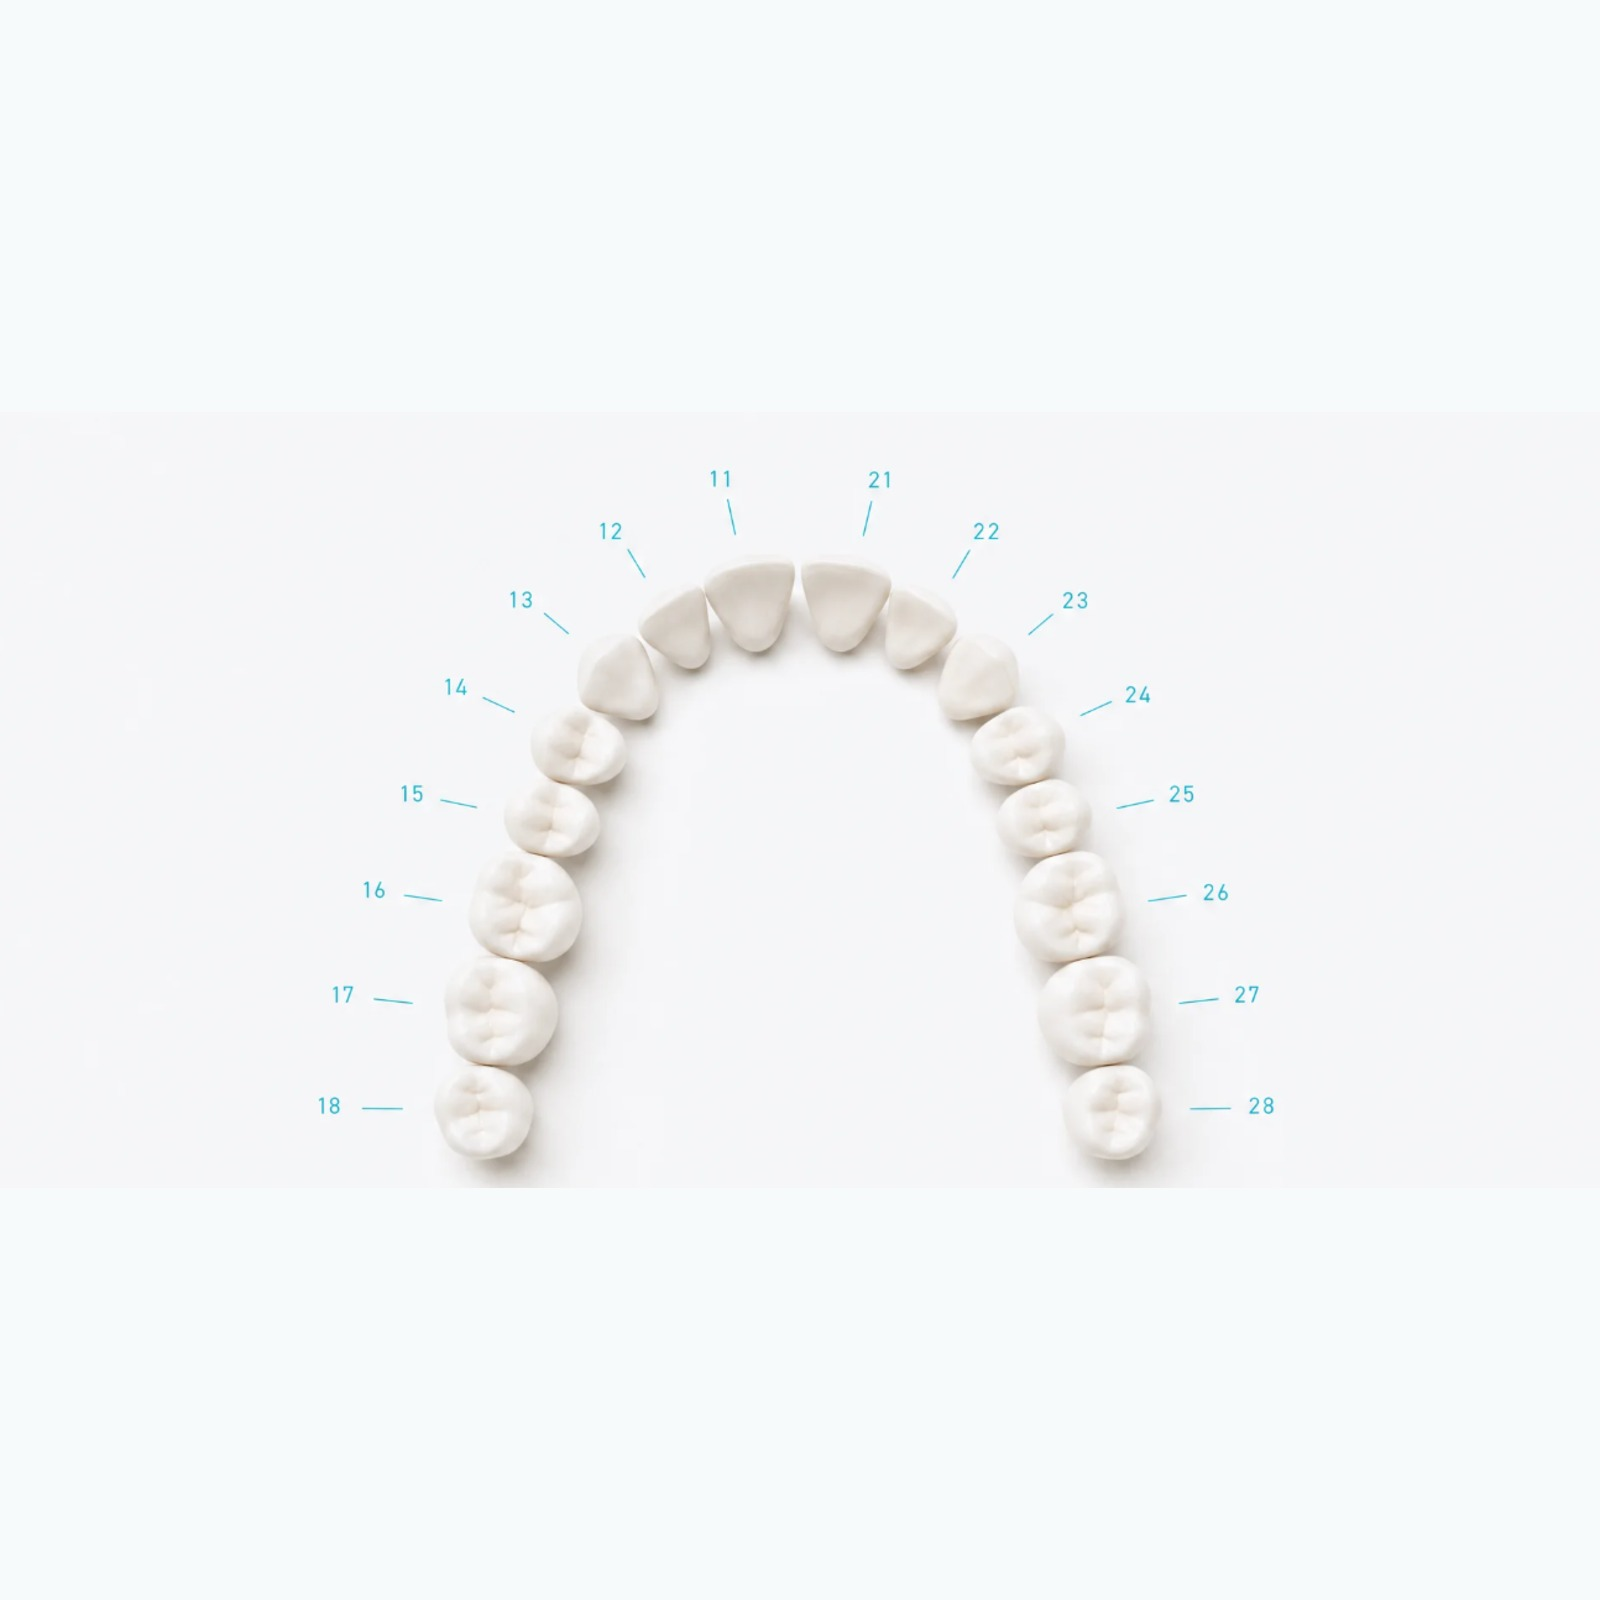
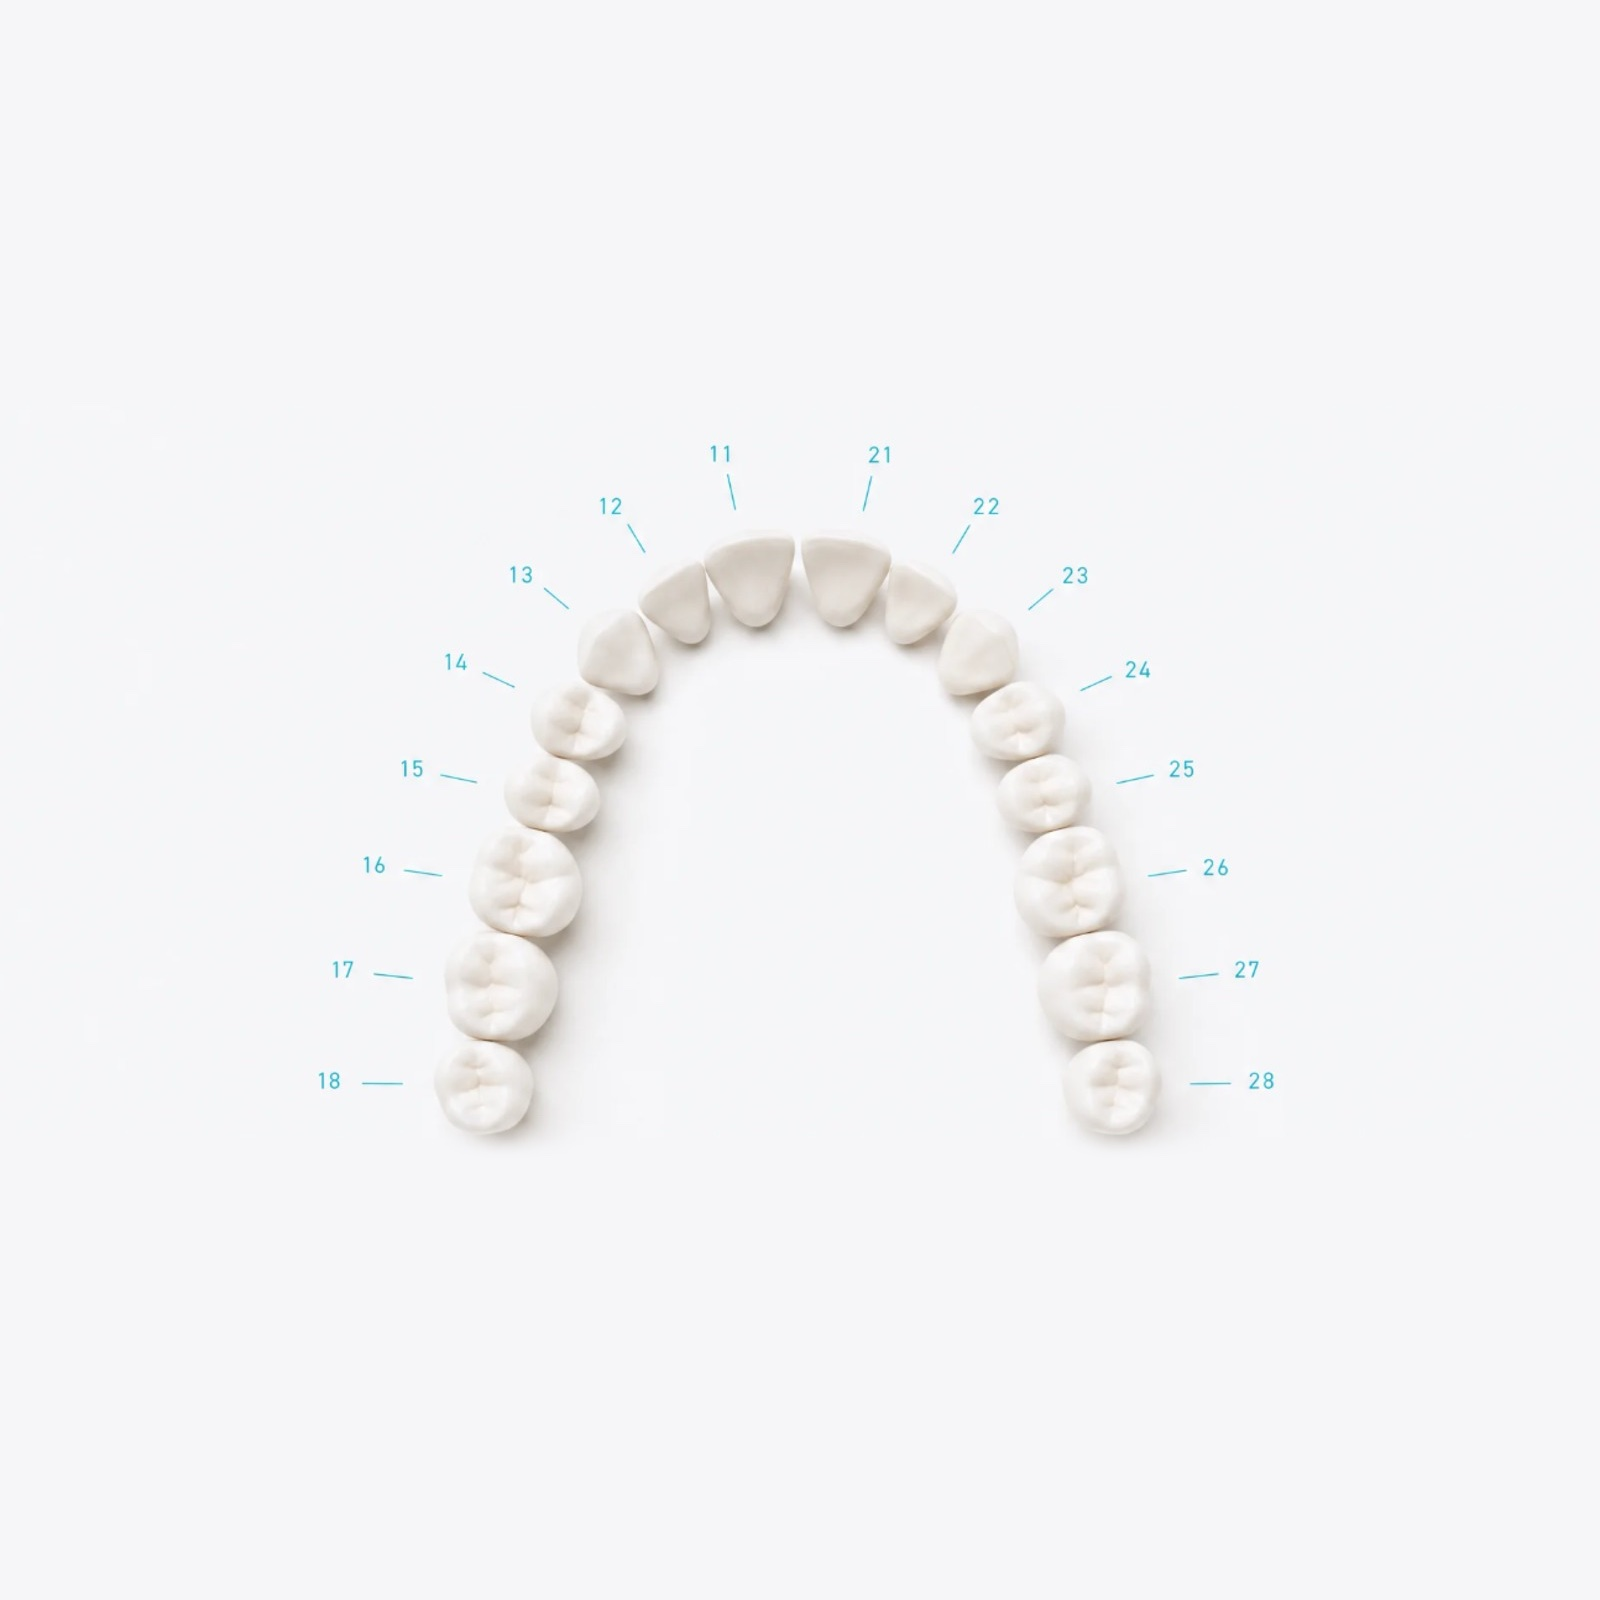
Corregir cortes en imágenes de inventario y proporciones
- Inventario: se unifican las bandas de fondo superior/inferior con el
  color del centro, se recentra la arcada y se difumina la sombra
  recortada bajo los molares.
- Proporciones: se recorta por debajo del corte horizontal del rostro
  (franja vacía arriba) manteniendo el cuadrado centrado.

diff --git a/src/components/shared.jsx b/src/components/shared.jsx
@@ -654,7 +654,7 @@ const ANALYSIS_PARAMS = [
     name: "Inventario dental", tag: "NOTACIÓN FDI",
     title: "Cada pieza, identificada",
     copy: <>Antes de simular, la IA reconoce y numera cada diente con la notación FDI internacional: qué pieza es cuál, cuáles faltan y cuáles entran en el tratamiento, para que la propuesta encaje con <b>la anatomía real del paciente.</b></>,
-    img: RES.r1_inventario_jpg, alt: "Arcada dental completa con cada pieza numerada según la notación FDI", zoom: 1.5, origin: "50% 43%"
+    img: RES.r1_inventario_jpg, alt: "Arcada dental completa con cada pieza numerada según la notación FDI", zoom: 1.3, origin: "50% 50%"
   },
   {
     name: "Macroestética", tag: "ARMONÍA FACIAL",
@@ -666,7 +666,7 @@ const ANALYSIS_PARAMS = [
     name: "Proporciones", tag: "PROPORCIÓN ÁUREA",
     title: "Cada diente en su medida",
     copy: <>Anchos y alturas de las piezas anteriores se calculan según la proporción áurea. Así cada diente guarda la relación exacta con el de al lado y con el conjunto, <b>la base de una sonrisa que se percibe natural.</b></>,
-    img: RES.r3_proporciones_jpg, alt: "Rostro con trazos de proporción sobre labios y sonrisa", zoom: 1.1, origin: "50% 60%"
+    img: RES.r3_proporciones_jpg, alt: "Rostro con trazos de proporción sobre labios y sonrisa", zoom: 1, origin: "50% 50%"
   },
   {
     name: "Arco de sonrisa", tag: "DETALLE NATURAL",
